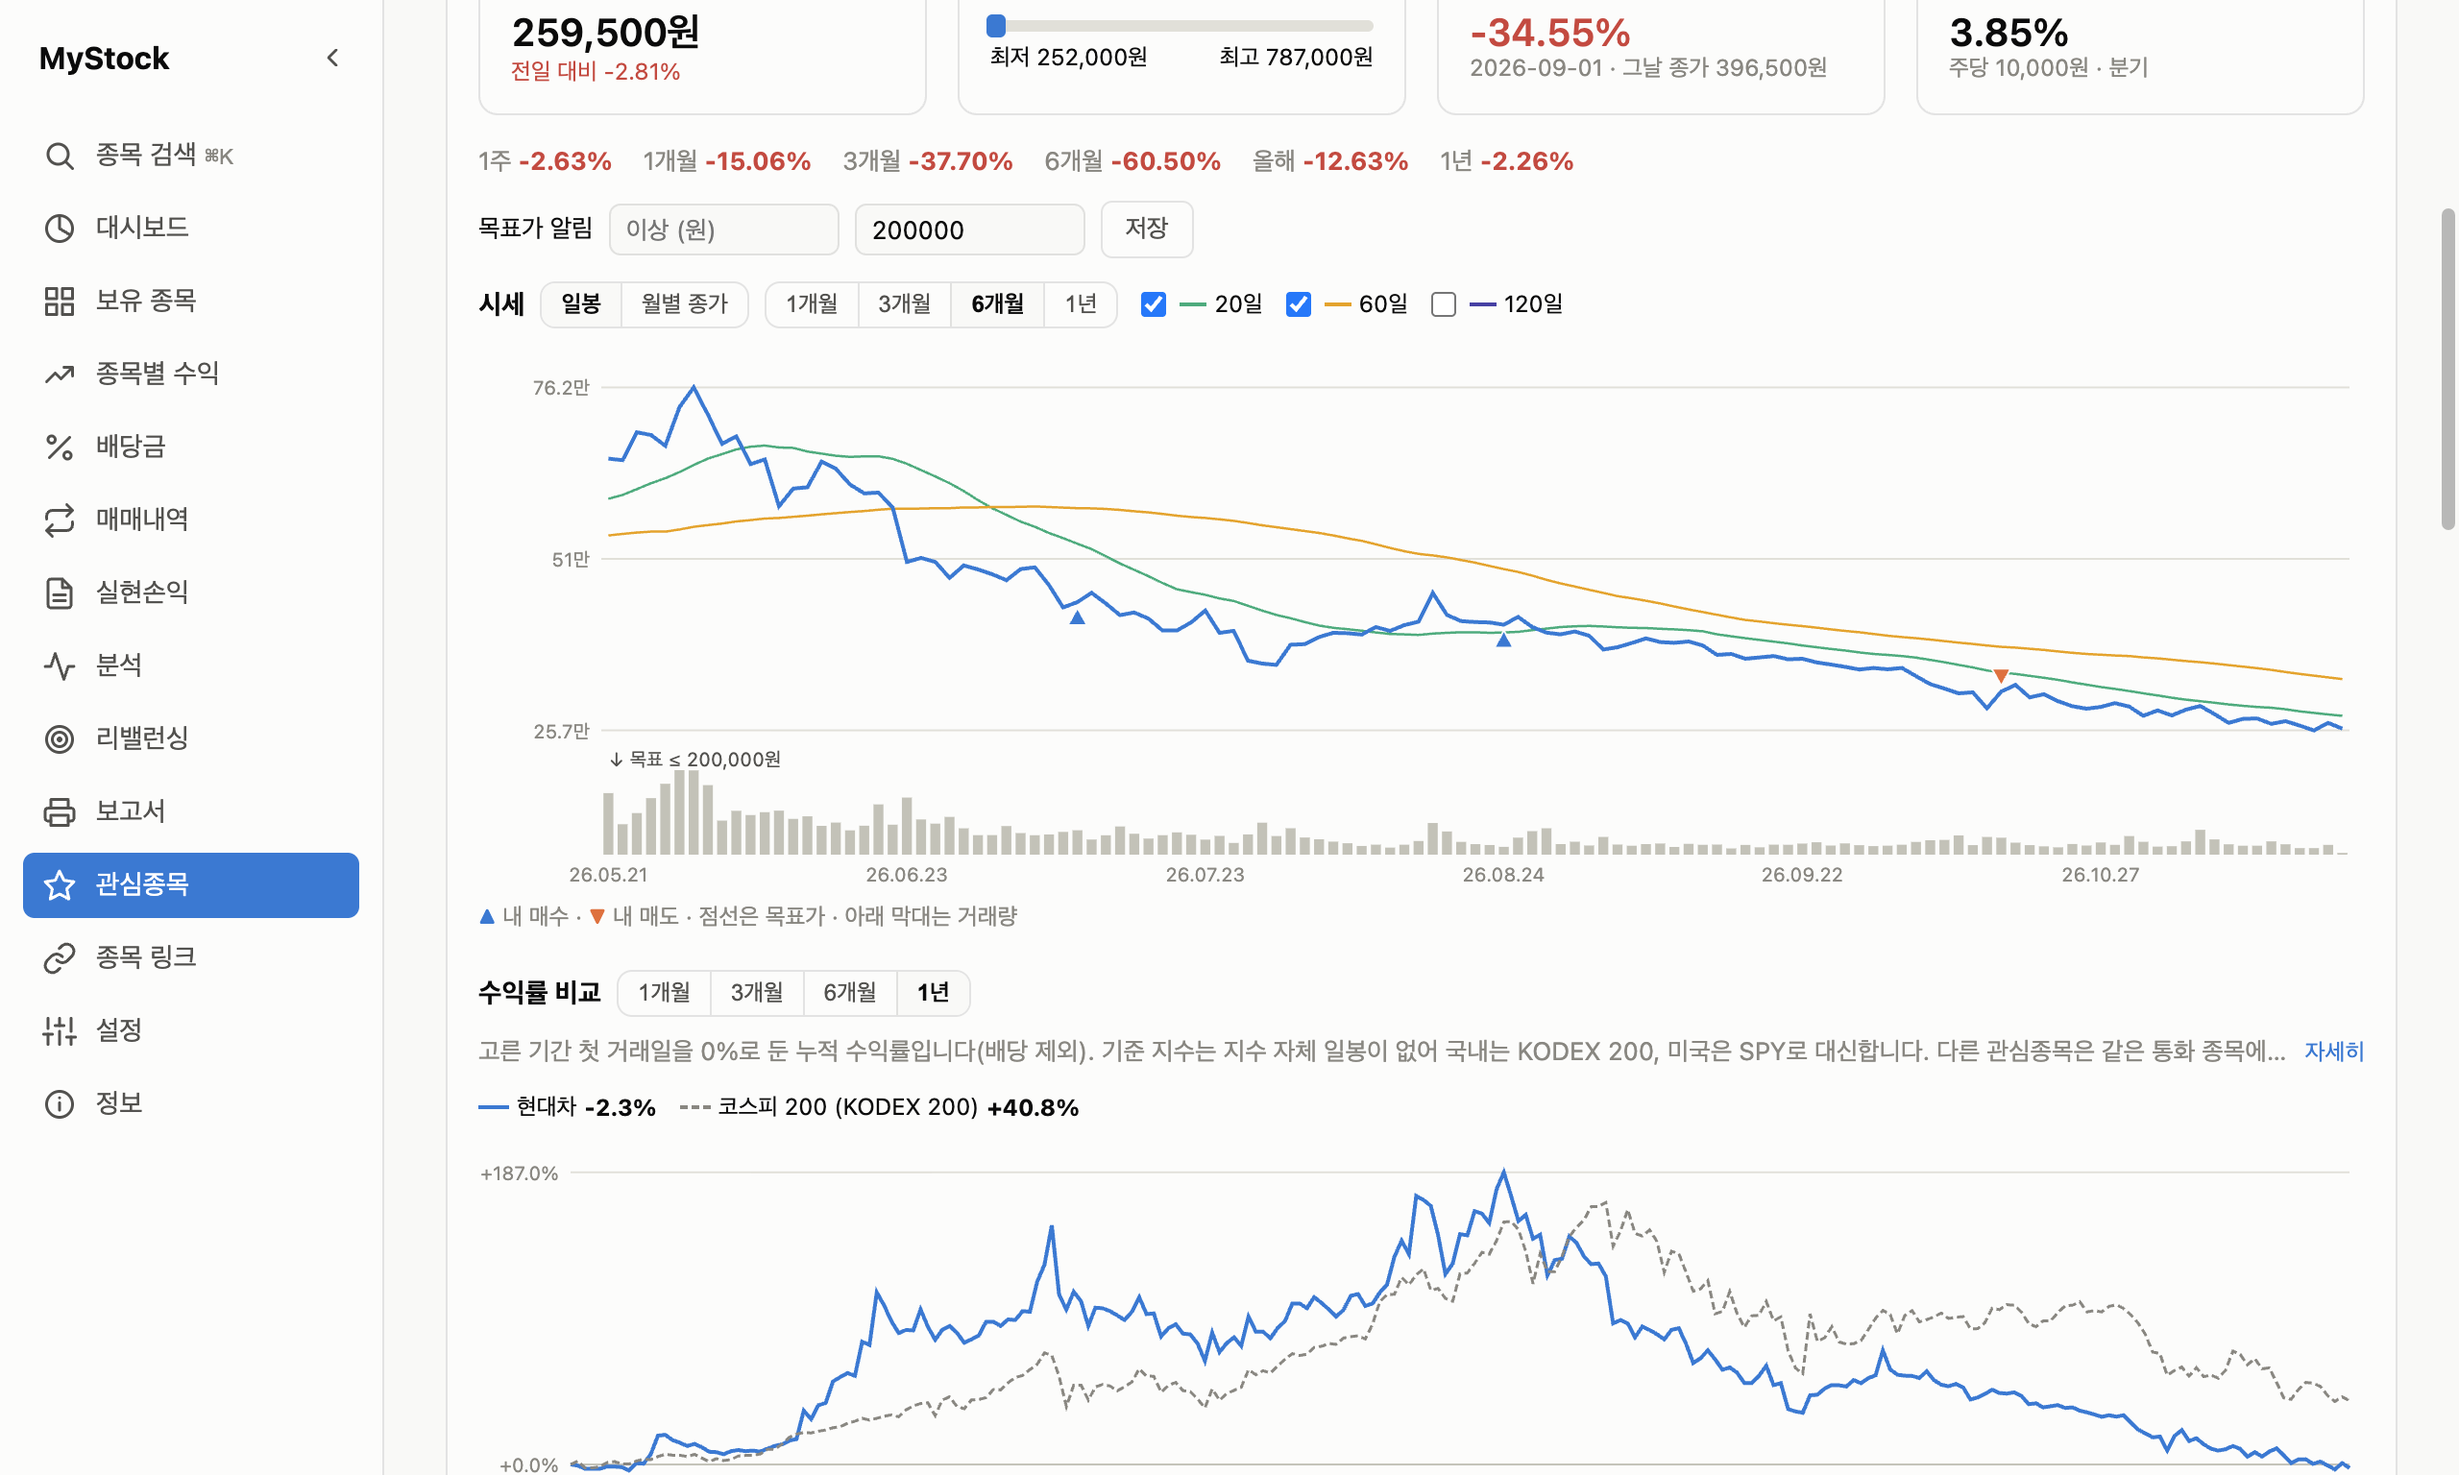
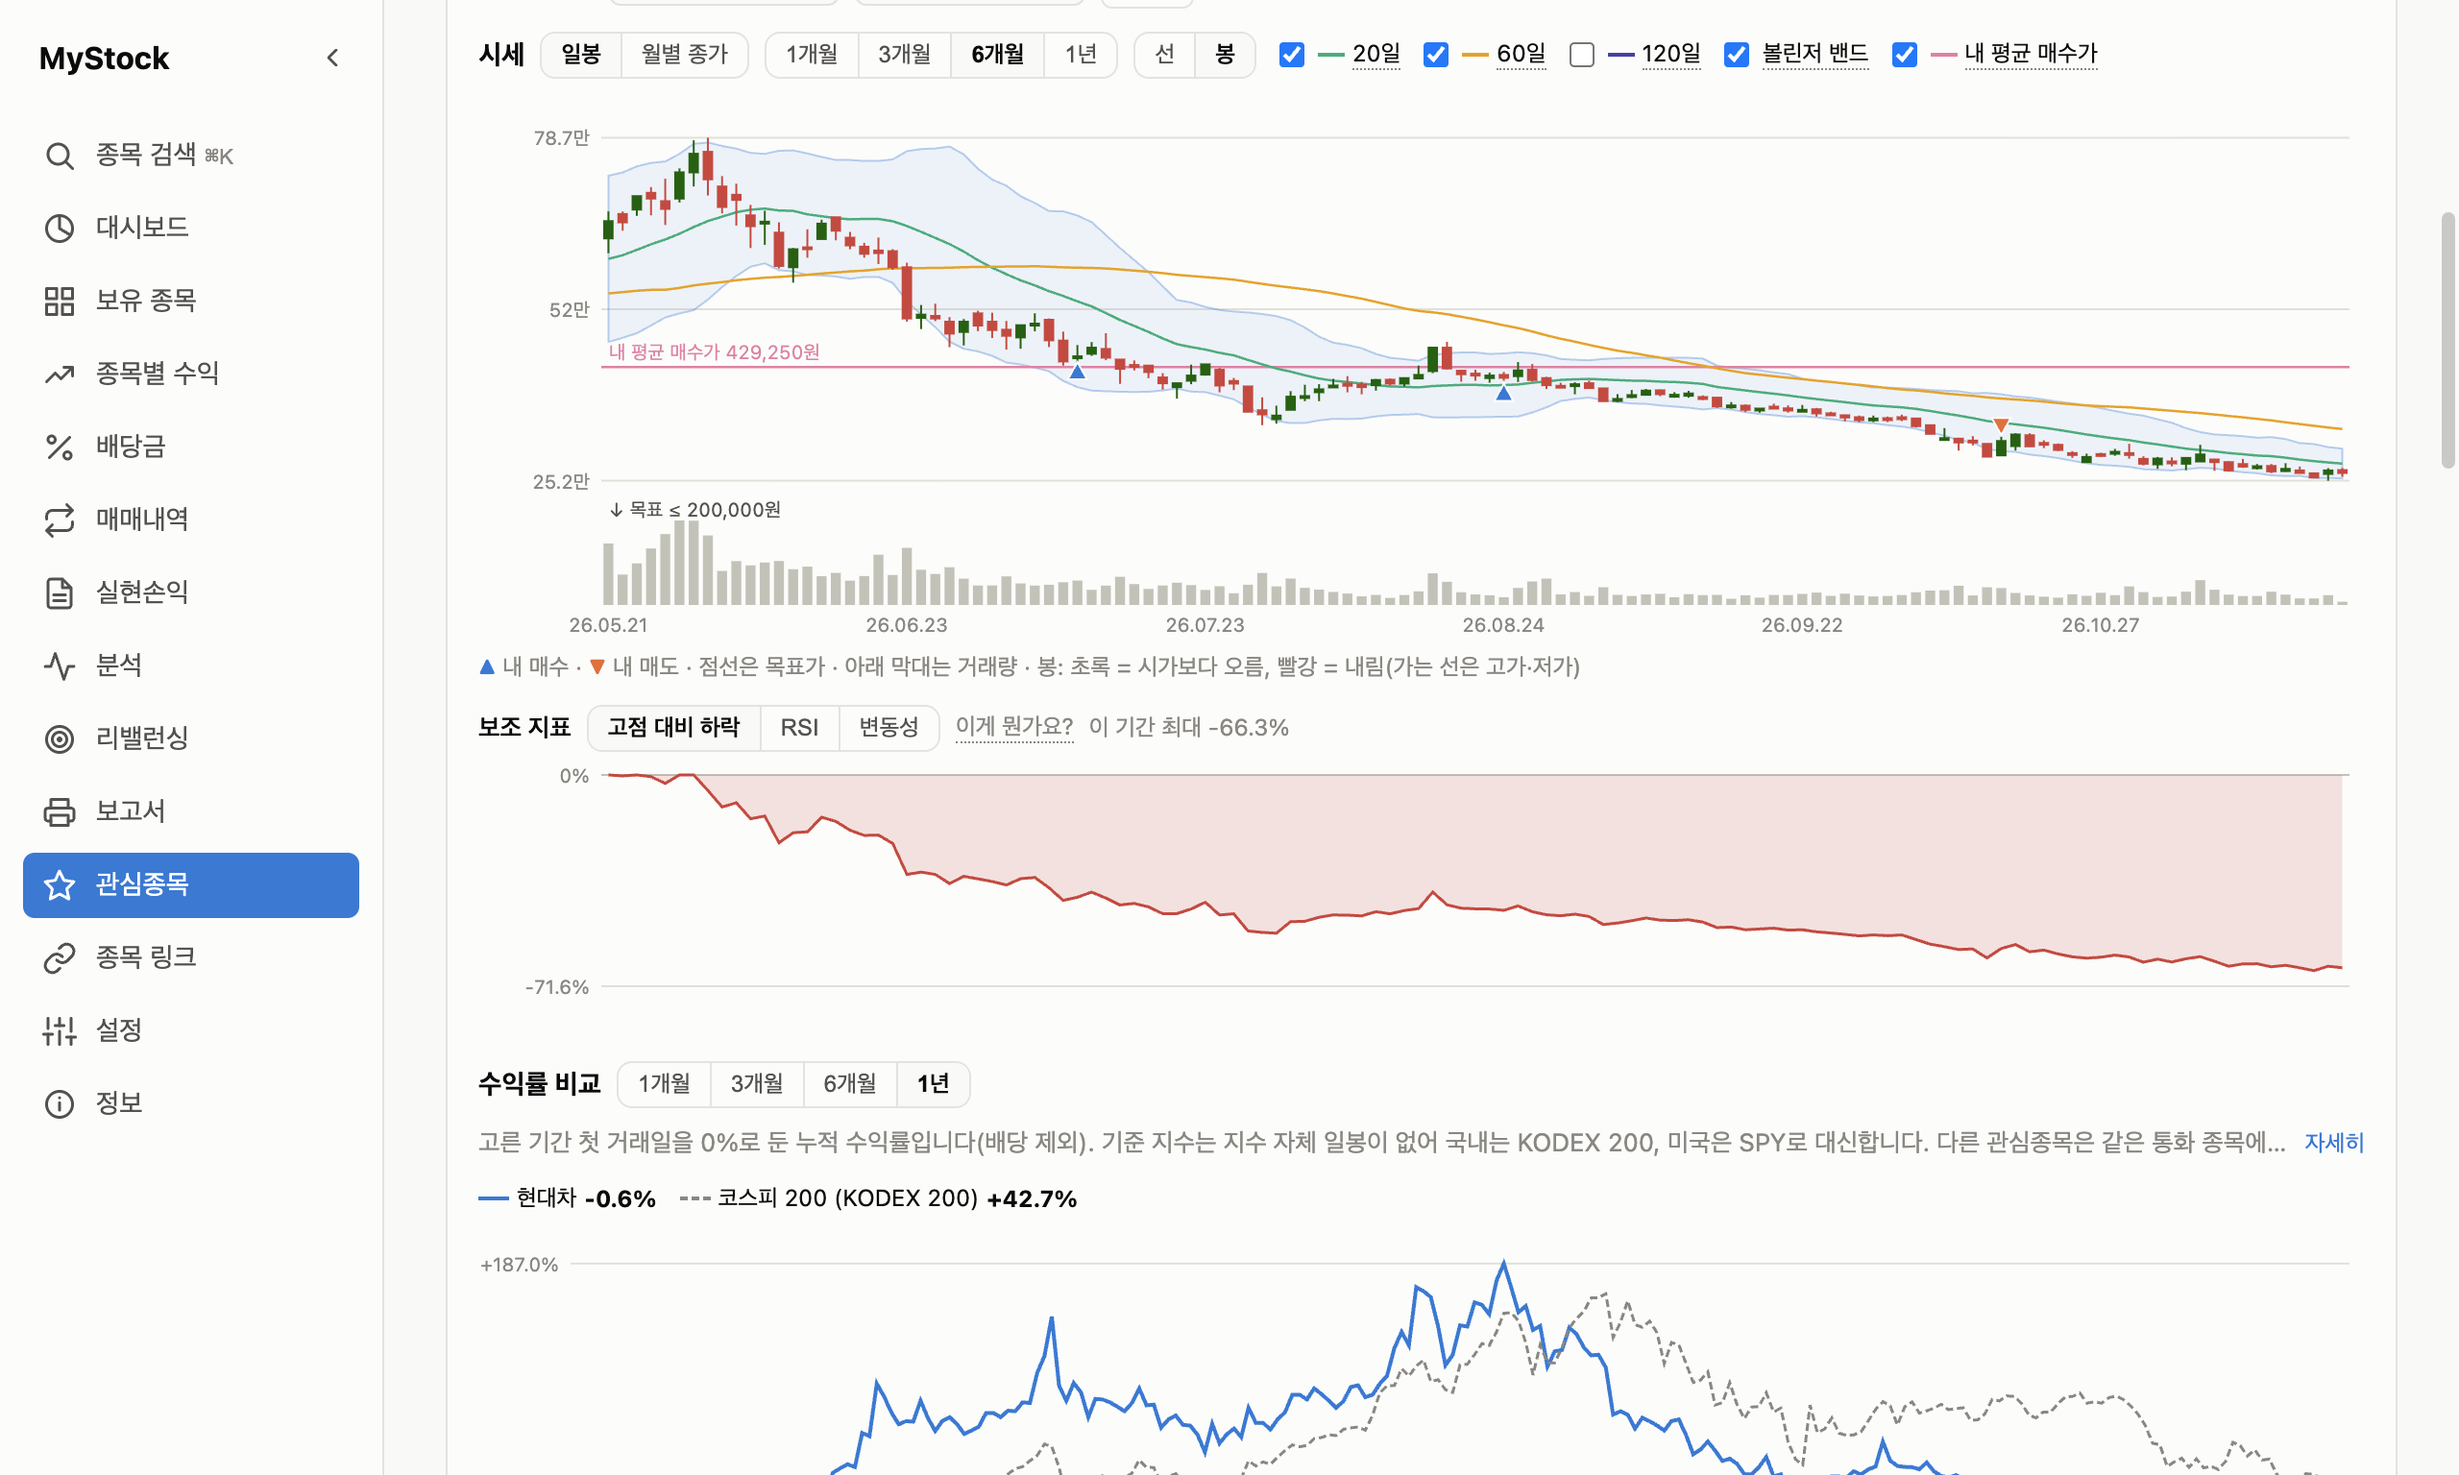
release: v1.5.1 — 버전·CHANGELOG, README·매뉴얼 기준 버전, 관심종목 상세 스크린샷(봉·보조 지표·배당 포함 수익·월별 등락률)

diff --git a/README.md b/README.md
@@ -25,7 +25,7 @@
   - 릴리스마다 `SHA256SUMS.txt`가 함께 올라갑니다 — 받은 파일이 진짜인지 확인하는 방법은
     [매뉴얼의 "받은 파일 확인하기"](doc/user-manual.md#받은-파일-확인하기-선택)를 보세요.
 - **사용자 매뉴얼**: [`doc/user-manual.md`](doc/user-manual.md) — 화면별 사용법, API 키 발급 안내(증권사·Google·한국수출입은행), 백업/복원, 문제 해결.
-- **변경 내역**: [`CHANGELOG.md`](CHANGELOG.md) — 버전별 새 기능과 수정(최신 v1.5.0). 새 버전으로 바꿔 설치해도 데이터와 API 키는 그대로 남습니다
+- **변경 내역**: [`CHANGELOG.md`](CHANGELOG.md) — 버전별 새 기능과 수정(최신 v1.5.1). 새 버전으로 바꿔 설치해도 데이터와 API 키는 그대로 남습니다
   ([매뉴얼의 "새 버전으로 업데이트"](doc/user-manual.md#새-버전으로-업데이트)).
 - ⚠ 설치 파일은 **OS별 코드 서명 인증서로 서명되어 있지 않아** 처음 실행할 때 macOS·Windows가 막습니다.
   OS별 허용 방법(macOS 15부터는 우클릭 → 열기가 통하지 않음)은

diff --git a/CHANGELOG.md b/CHANGELOG.md
@@ -3,7 +3,7 @@
 MyStock의 버전별 변경 사항입니다. 설치 파일은 [GitHub Releases](https://github.com/ultracat/MyStockInfo/releases)에서 받습니다.
 기능별 사용법은 [사용자 매뉴얼](doc/user-manual.md)을 참고하세요.
 
-## 다음 버전 (미배포)
+## v1.5.1 — 2026-11-19
 
 - **관심종목 상세**: 종목을 누르면 훨씬 자세히 보입니다.
   - 요약에 52주 범위(지금 가격 위치), 관심종목에 넣은 뒤 수익률, 배당수익률과 배당 주기, 그 아래 1주~1년 기간 수익률.
